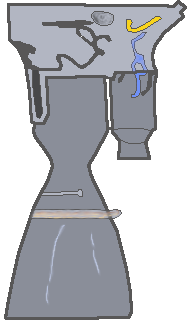
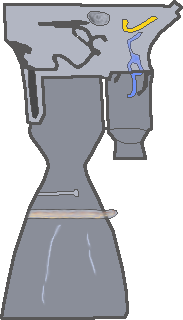
performance tab, basic deltaV calc

diff --git a/src/components/RocketStats/RocketStats.ts b/src/components/RocketStats/RocketStats.ts
@@ -1,29 +1,48 @@
-import { PartTypes, RocketPartPrototypes } from "@/config/rocket_parts";
-import { fuelMassCalc } from "@/lib/ship_functions";
+import {
+    GRAVITY_SOURCE,
+    PartTypes,
+    RocketPartPrototypes,
+} from "@/config/rocket_parts";
+import { fuelMassCalc, getDeltaV } from "@/lib/ship_functions";
+import { roundToDecimalPlaces } from "@/lib/utils";
 import { Rocket } from "@/types/rocket";
 import { RocketStats, StageStats } from "@/types/rocket_stats";
+
+function initStageSummary(stageId: string) {
+    return {
+        stageId: stageId,
+
+        individual: {
+            totalWeight: 0,
+            dryWeight: 0,
+
+            totalThrust: 0,
+            totalIsp: 0,
+
+            deltaV: 0,
+        },
+
+        stacked: {
+            totalWeight: 0,
+            dryWeight: 0,
+
+            totalThrust: 0,
+            totalIsp: 0,
+
+            deltaV: 0,
+        },
+    };
+}
 
 export function calculateRocketStats(rocket: Rocket): RocketStats {
     const stageStats = (() => {
         let results: StageStats[] = [];
         for (let stage of rocket.stages) {
-            let stageSummary: StageStats = {
-                stageId: stage.id,
+            let stageSummary: StageStats = initStageSummary(stage.id);
+            let ispThrustSum = 0;
 
-                individual: {
-                    totalWeight: 0,
-                    dryWeight: 0,
-                    totalThrust: 0,
-                },
-
-                stacked: {
-                    totalWeight: 0,
-                    dryWeight: 0,
-                    totalThrust: 0,
-                },
-            };
-
-            //Summerize stages individually
+            //====== Summerize stages individually ======
+            //=== dryWeight, totalWeight, totalThrust ===
             for (let part of stage.parts) {
                 stageSummary.individual.dryWeight += part.weight;
                 stageSummary.stacked.dryWeight += part.weight;
@@ -46,6 +65,8 @@ export function calculateRocketStats(rocket: Rocket): RocketStats {
 
                     stageSummary.individual.totalThrust += protPart.thrust_sl;
                     stageSummary.stacked.totalThrust += protPart.thrust_sl;
+
+                    ispThrustSum += protPart.thrust_sl * protPart.isp_sl;
                 } else if (part.part_type === PartTypes.FUELTANK) {
                     if (!protPart)
                         throw new Error(
@@ -66,18 +87,43 @@ export function calculateRocketStats(rocket: Rocket): RocketStats {
                 }
             }
 
+            //=== calculate individual stage deltaV ===
+            if (stageSummary.individual.totalThrust !== 0) {
+                stageSummary.individual.totalIsp =
+                    ispThrustSum / stageSummary.individual.totalThrust;
+                //stacked is the same
+                stageSummary.stacked.totalIsp =
+                    ispThrustSum / stageSummary.stacked.totalThrust;
+            }
+
+            stageSummary.individual.deltaV = getDeltaV(
+                stageSummary.individual.totalWeight,
+                stageSummary.individual.dryWeight,
+                stageSummary.individual.totalIsp,
+                GRAVITY_SOURCE.EARTH
+            );
+
             results.push(stageSummary);
         }
 
-        //Summerize stages stacked
+        //=== Stacked stages performace ===
+        //deltaV of the uppermost stacked stage is equal to the individual
+        if (results.length) {
+            results[results.length - 1].stacked.deltaV =
+                results[results.length - 1].individual.deltaV;
+        }
         for (let i = results.length - 1; i > 0; i--) {
             results[i - 1].stacked.dryWeight += results[i].stacked.dryWeight;
 
             results[i - 1].stacked.totalWeight +=
                 results[i].stacked.totalWeight;
 
-            results[i - 1].stacked.totalThrust +=
-                results[i].stacked.totalThrust;
+            results[i - 1].stacked.deltaV = getDeltaV(
+                results[i - 1].stacked.totalWeight,
+                results[i - 1].stacked.dryWeight,
+                results[i - 1].stacked.totalIsp,
+                GRAVITY_SOURCE.EARTH
+            );
         }
 
         return results;

diff --git a/src/components/RocketEditorMenu/RocketEditorMenu.tsx b/src/components/RocketEditorMenu/RocketEditorMenu.tsx
@@ -1,36 +1,48 @@
 import React, { useContext } from "react";
 import { Button } from "../ui/button";
-import { Combine, Hammer } from "lucide-react";
+import { Combine, Gauge, Hammer } from "lucide-react";
 import { EditorMenuOptions, cn } from "@/lib/utils";
 import RocketPartsList from "../RocketPartList/RocketPartsList";
 import RocketStages from "../RocketEditor/RocketStages";
 import { RocketContext } from "../RocketEditor/RocketContext";
+import RocketPerformance from "../RocketPerformance/RocketPerformance";
 
 const RocketEditorMenu = () => {
     const { menuOption, setMenuOption } = useContext(RocketContext);
 
     return (
         <>
-            <div className="flex items-center gap-0.5 mt-1">
+            <div className="flex items-center gap-1 lg:gap-2 mt-1 pb-1 overflow-y-auto">
                 <Button
                     variant={"outline"}
-                    className={cn("", {
+                    className={cn("p-1", {
                         "bg-zinc-300": menuOption === EditorMenuOptions.PARTS,
                     })}
                     onClick={() => setMenuOption(EditorMenuOptions.PARTS)}
                 >
-                    <span className="text-xs lg:text-base">Parts</span>
-                    <Hammer className="h-5 w-5 ml-1" />
+                    <span className="text-xs xl:text-base">Parts</span>
+                    <Hammer className="hidden lg:block h-4 w-4 xl:h-5 xl:w-5 ml-1" />
                 </Button>
                 <Button
                     variant={"outline"}
-                    className={cn("", {
+                    className={cn("p-1", {
                         "bg-zinc-300": menuOption === EditorMenuOptions.STAGES,
                     })}
                     onClick={() => setMenuOption(EditorMenuOptions.STAGES)}
                 >
-                    <span className="text-xs lg:text-base">Stages</span>
-                    <Combine className="h-5 w-5 ml-1" />
+                    <span className="text-xs xl:text-base">Stages</span>
+                    <Combine className="hidden lg:block h-4 w-4 xl:h-5 xl:w-5 ml-1" />
+                </Button>
+                <Button
+                    variant={"outline"}
+                    className={cn("p-1", {
+                        "bg-zinc-300":
+                            menuOption === EditorMenuOptions.PERFORMANCE,
+                    })}
+                    onClick={() => setMenuOption(EditorMenuOptions.PERFORMANCE)}
+                >
+                    <span className="text-xs xl:text-base">Performance</span>
+                    <Gauge className="hidden lg:block h-4 w-4 xl:h-5 xl:w-5 ml-1" />
                 </Button>
             </div>
 
@@ -51,7 +63,7 @@ const RocketEditorMenu = () => {
 
                 <div
                     className={cn(
-                        "absolute inset-y-0 left-0 w-full h-full transition-all duration-300 overflow-y-auto scrollbar-w-2 scrollbar-track-blue-lighter scrollbar-thumb-blue scrollbar-thumb-rounded",
+                        "absolute inset-y-0 left-0 w-full h-full transition-all duration-300 overflow-y-auto",
                         {
                             "translate-x-0 opacity-100":
                                 menuOption === EditorMenuOptions.STAGES,
@@ -61,6 +73,20 @@ const RocketEditorMenu = () => {
                     )}
                 >
                     <RocketStages />
+                </div>
+
+                <div
+                    className={cn(
+                        "absolute inset-y-0 left-0 w-full h-full transition-all duration-300 overflow-y-auto",
+                        {
+                            "translate-x-0 opacity-100":
+                                menuOption === EditorMenuOptions.PERFORMANCE,
+                            "translate-x-full opacity-0 pointer-events-none -z-10":
+                                menuOption !== EditorMenuOptions.PERFORMANCE,
+                        }
+                    )}
+                >
+                    <RocketPerformance />
                 </div>
             </div>
         </>

diff --git a/src/app/globals.css b/src/app/globals.css
@@ -62,22 +62,22 @@
[1 lines of base64/hex data omitted]
 }
 
-.scrollbar-w-2::-webkit-scrollbar {
+::-webkit-scrollbar {
     width: 0.25rem;
     height: 0.25rem;
 }
 
-.scrollbar-track-blue-lighter::-webkit-scrollbar-track {
+::-webkit-scrollbar-track {
     --bg-opacity: 0.5;
     background-color: #00000015;
 }
 
-.scrollbar-thumb-blue::-webkit-scrollbar-thumb {
+::-webkit-scrollbar-thumb {
     --bg-opacity: 0.5;
     background-color: #13131374;
 }
 
-.scrollbar-thumb-rounded::-webkit-scrollbar-thumb {
+::-webkit-scrollbar-thumb {
     border-radius: 7px;
 }
 

diff --git a/src/components/RocketPerformance/RocketPerformance.tsx b/src/components/RocketPerformance/RocketPerformance.tsx
@@ -1,0 +1,28 @@
+import React, { useContext } from "react";
+import { RocketContext } from "../RocketEditor/RocketContext";
+import { Separator } from "../ui/separator";
+
+const RocketPerformance = () => {
+    const { stats } = useContext(RocketContext);
+    if (!stats) return "";
+
+    return (
+        <div className="flex flex-col">
+            {stats.stageStats.map((stageStat, index) => (
+                <div
+                    className="flex flex-col"
+                    key={"stat_" + stageStat.stageId}
+                >
+                    <div className="flex justify-between py-3">
+                        <span>{`Stage ${index + 1}`}</span>
+                        <p>ind: {stageStat.individual.deltaV}m/s</p>
+                        <p>stacked: {stageStat.stacked.deltaV}m/s</p>
+                    </div>
+                    <Separator />
+                </div>
+            ))}
+        </div>
+    );
+};
+
+export default RocketPerformance;

diff --git a/src/lib/ship_functions.ts b/src/lib/ship_functions.ts
@@ -1,4 +1,7 @@
-import { Rocket } from "@/types/rocket";
+import { PartTypes, RocketPartPrototypes } from "@/config/rocket_parts";
+import { Rocket, RocketStage } from "@/types/rocket";
+import { RocketPart } from "@prisma/client";
+import { roundToDecimalPlaces } from "./utils";
 
 export function partScaleChanged(
     ship: Rocket,
@@ -113,4 +116,16 @@ export function fuelMassCalc(object: { diameter: number; length: number }) {
     const weight =
         volume * 0.65 * density_oxygen + volume * 0.35 * density_fuel;
     return weight;
+}
+
+export function getDeltaV(
+    totalWeight: number,
+    dryWeight: number,
+    totalIsp: number,
+    gravity: number
+) {
+    const exhaustRatio = totalWeight / dryWeight;
+    const exhaustVelocity = totalIsp * gravity;
+    const deltaV = exhaustVelocity * Math.log(exhaustRatio);
+    return roundToDecimalPlaces(deltaV, 0);
 }

diff --git a/src/config/rocket_parts.ts b/src/config/rocket_parts.ts
@@ -1,3 +1,7 @@
+export const GRAVITY_SOURCE = {
+    EARTH: 9.81,
+};
+
 export enum PartTypes {
     ENGINE = "Engine",
     FUELTANK = "Fuel tank",
@@ -31,8 +35,8 @@ export const RocketPartPrototypes = [
         isp_vc: 311,
         weight: 470,
         scale: 0.4,
-        width: 187,
-        height: 323,
+        width: 183,
+        height: 320,
     },
     {
         part_type: PartTypes.ENGINE,
@@ -111,8 +115,8 @@ export const RocketPartPrototypes = [
         image: "gemini.png",
         weight: 3700,
         scale: 0.7,
-        width: 300,
-        height: 300,
+        width: 157,
+        height: 298,
     },
     {
         part_type: PartTypes.COMMANDPOD,

diff --git a/src/types/rocket_stats.ts b/src/types/rocket_stats.ts
@@ -11,12 +11,20 @@ export type StageStats = {
     individual: {
         totalWeight: number;
         dryWeight: number;
+
         totalThrust: number;
+        totalIsp: number;
+
+        deltaV: number;
     };
 
     stacked: {
         totalWeight: number;
         dryWeight: number;
+
         totalThrust: number;
+        totalIsp: number;
+
+        deltaV: number;
     };
 };
